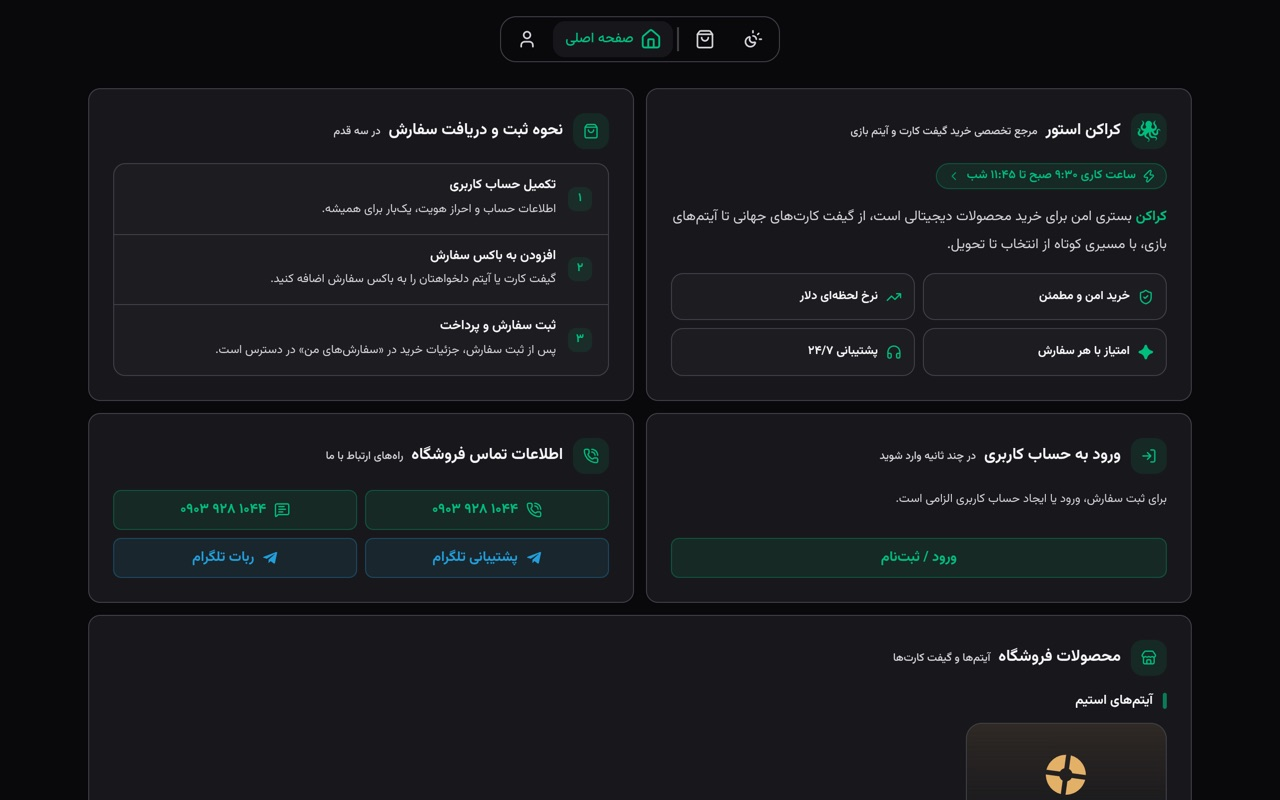
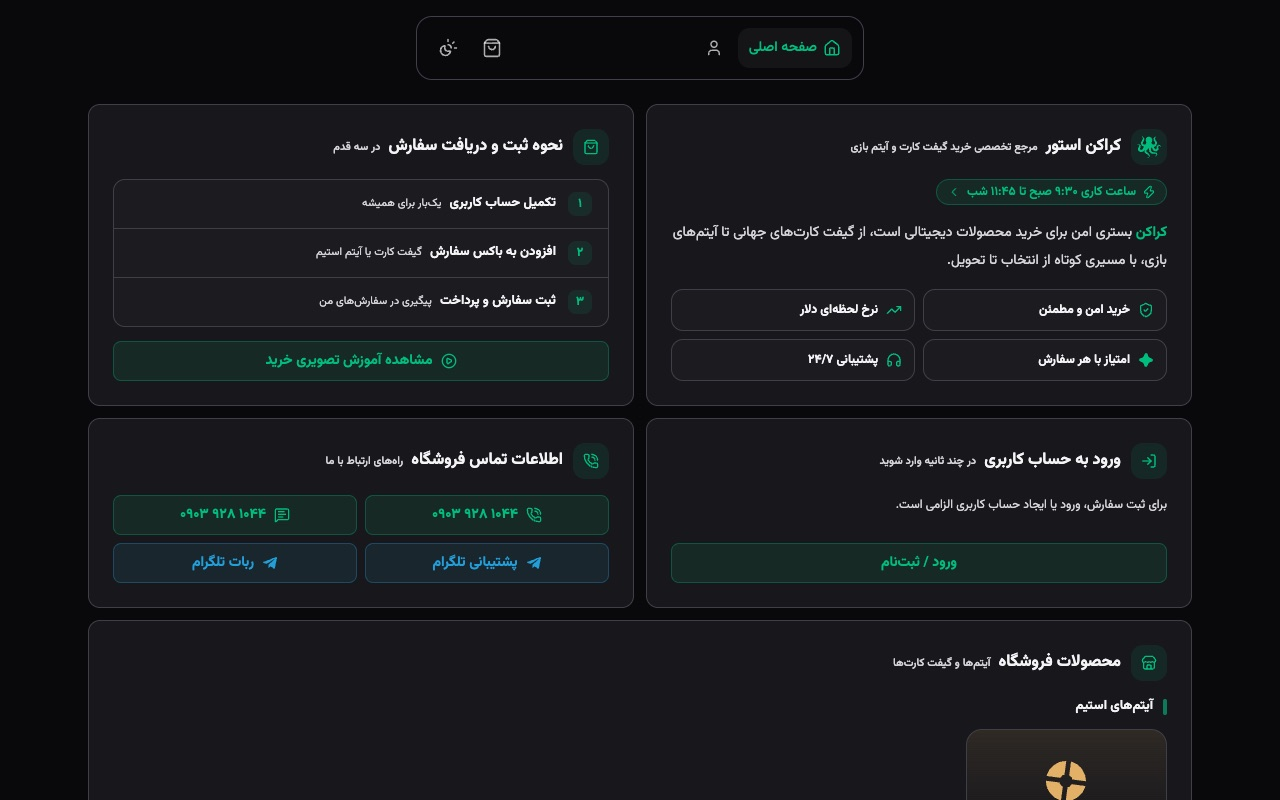
refactor(theme): follow system theme only

diff --git a/src/styles/globals.css b/src/styles/globals.css
@@ -1,7 +1,5 @@
 @import "tailwindcss";
 
-@custom-variant dark (&:is(.dark *));
-
 /* Self-hosted on a stable path so index.html can preload it — the version lives
    in the filename, so bumping the font means renaming the file. */
 @font-face {
@@ -65,6 +63,7 @@
 /* ── LAYER 2 — SEMANTIC TOKENS ─────────────────────────────────────────────
    Aliases only; a literal colour here is a bug. */
 :root {
+  color-scheme: light dark;
   --background: var(--paper-light);
   --foreground: var(--n-800);
   --card: var(--n-0);
@@ -94,31 +93,33 @@
   --github: var(--github-ink);
 }
 
-/* Only the slots that differ between themes. */
-.dark {
-  color-scheme: dark;
-  --background: var(--paper-dark);
-  --foreground: var(--n-200);
-  --card: var(--paper-dark-raised);
-  --card-foreground: var(--n-50);
-  --popover: var(--n-800);
-  --popover-foreground: var(--n-400);
-  --primary: var(--emerald-500);
-  --primary-foreground: oklch(0.16 0.02 164);
-  --secondary: var(--n-800);
-  --secondary-foreground: var(--n-0);
-  --muted: var(--n-800);
-  --muted-foreground: var(--n-400);
-  --accent: var(--n-800);
-  --accent-foreground: var(--n-0);
-  --destructive: var(--danger-bright);
-  --border: var(--n-800);
-  --input: var(--n-700);
-  --skeleton: var(--n-700);
-  --nav: var(--n-800);
-  --nav-thumb: var(--n-700);
+/* Only the slots that differ between themes. The site follows the visitor's
+   system setting; there is no toggle. */
+@media (prefers-color-scheme: dark) {
+  :root {
+    --background: var(--paper-dark);
+    --foreground: var(--n-200);
+    --card: var(--paper-dark-raised);
+    --card-foreground: var(--n-50);
+    --popover: var(--n-800);
+    --popover-foreground: var(--n-400);
+    --primary: var(--emerald-500);
+    --primary-foreground: oklch(0.16 0.02 164);
+    --secondary: var(--n-800);
+    --secondary-foreground: var(--n-0);
+    --muted: var(--n-800);
+    --muted-foreground: var(--n-400);
+    --accent: var(--n-800);
+    --accent-foreground: var(--n-0);
+    --destructive: var(--danger-bright);
+    --border: var(--n-800);
+    --input: var(--n-700);
+    --skeleton: var(--n-700);
+    --nav: var(--n-800);
+    --nav-thumb: var(--n-700);
 
-  --github: var(--github-snow);
+    --github: var(--github-snow);
+  }
 }
 
 @theme {
@@ -148,23 +149,11 @@
   --color-instagram: var(--instagram);
   --color-github: var(--github);
 
-  --animate-icon-in: icon-in 200ms ease-out;
   --animate-skeleton-wave: skeleton-wave 1.6s ease-in-out infinite;
 
   @keyframes skeleton-wave {
     50% {
       opacity: 0.35;
-    }
-  }
-
-  @keyframes icon-in {
-    from {
-      opacity: 0;
-      scale: 0.7;
-    }
-    to {
-      opacity: 1;
-      scale: 1;
     }
   }
 }

diff --git a/src/components/layout/navigation/navigation.tsx b/src/components/layout/navigation/navigation.tsx
@@ -1,7 +1,6 @@
 import { FolderGit2, type LucideIcon, UserRound } from 'lucide-react';
 import type { CSSProperties } from 'react';
 import { NavLink, useLocation } from 'react-router';
-import { useThemeNavigation } from '@/hooks/use-theme-navigation';
 import { cn } from '@/lib/utils/cn';
 
 interface NavTab {
@@ -20,30 +19,13 @@ const itemClass =
 
 export function Navigation() {
   const { pathname } = useLocation();
-  const { theme, getThemeIcon, getThemeLabel, toggleTheme } = useThemeNavigation();
-  const ThemeIcon = getThemeIcon();
   const selected = tabs.findIndex((tab) => tab.path === pathname);
 
   return (
     <nav
       aria-label="ناوبری اصلی"
-      className="flex items-center gap-1 rounded-full border border-border/60 bg-nav/60 p-1 backdrop-blur-xl backdrop-saturate-150"
+      className="flex items-center rounded-full border border-border/60 bg-nav/60 p-1 backdrop-blur-xl backdrop-saturate-150"
     >
-      {/* The control leads the row, ahead of the separator that divides it from
-          the places the visitor can go. */}
-      <button
-        type="button"
-        onClick={toggleTheme}
-        aria-label={`تغییر پوسته (فعلی: ${getThemeLabel()})`}
-        title={`پوسته: ${getThemeLabel()}`}
-        className={cn(itemClass, 'w-10 text-muted-foreground hover:text-foreground')}
-      >
-        {/* Keyed on the theme so the icon replays its entrance on every change */}
-        <ThemeIcon key={theme} className="size-5 animate-icon-in" />
-      </button>
-
-      <div aria-hidden="true" className="mx-1 h-6 w-px bg-foreground/15" />
-
       {/* Equal columns, as wide as the longest title, so the thumb is one column
           wide and each step of `--i` moves it exactly one tab. `isolate` keeps the
           pill and the labels in one stacking context, so the labels stay on top. */}

diff --git a/src/pages/profile/github-activity.tsx b/src/pages/profile/github-activity.tsx
@@ -1,11 +1,10 @@
-import { useTheme } from 'next-themes';
 import { cloneElement } from 'react';
 import { type Activity, ActivityCalendar, type BlockElement } from 'react-activity-calendar';
 import { site } from '@/lib/site';
 import { useGitHubContributions } from './use-github-contributions';
 
 // Theme tokens rather than GitHub's greens, so the grid follows the site's
-// colours and flips with the `.dark` class on its own.
+// colours and flips with the system theme on its own.
 const calendarTheme = {
   light: ['var(--muted)', 'var(--primary)'],
   dark: ['var(--muted)', 'var(--primary)'],
@@ -63,7 +62,6 @@ function emptyWindow(): Activity[] {
 
 /** The owner's GitHub contribution graph for the last six months. */
 export function GitHubActivity() {
-  const { resolvedTheme } = useTheme();
   const contributions = useGitHubContributions(site.githubUsername);
   const loading = contributions.status === 'loading';
   const cutoff = sixMonthsAgo();
@@ -92,7 +90,6 @@ export function GitHubActivity() {
           // With the legend off, the grid is the only svg inside
           className="self-center [&_svg]:h-auto [&_svg]:max-w-full"
           data={data}
-          colorScheme={resolvedTheme === 'dark' ? 'dark' : 'light'}
           theme={loading ? skeletonTheme : calendarTheme}
           renderBlock={
             loading ? (block, activity) => skeletonBlock(block, activity, data[0].date) : undefined

diff --git a/src/app.tsx b/src/app.tsx
@@ -2,27 +2,17 @@ import { BrowserRouter, Navigate, Route, Routes } from 'react-router';
 import { RootLayout } from '@/layouts/root-layout';
 import { ProfilePage } from '@/pages/profile/profile-page';
 import { ProjectsPage } from '@/pages/projects/projects-page';
-import { ThemeProvider } from '@/providers/theme-provider';
 
 export function App() {
   return (
-    <ThemeProvider
-      attribute="class"
-      defaultTheme="system"
-      enableSystem
-      disableTransitionOnChange
-      // Same key the pre-paint script in index.html reads.
-      storageKey="ajayche-theme"
-    >
-      <BrowserRouter>
-        <Routes>
-          <Route element={<RootLayout />}>
-            <Route index element={<ProfilePage />} />
-            <Route path="/projects" element={<ProjectsPage />} />
-          </Route>
-          <Route path="*" element={<Navigate to="/" replace />} />
-        </Routes>
-      </BrowserRouter>
-    </ThemeProvider>
+    <BrowserRouter>
+      <Routes>
+        <Route element={<RootLayout />}>
+          <Route index element={<ProfilePage />} />
+          <Route path="/projects" element={<ProjectsPage />} />
+        </Route>
+        <Route path="*" element={<Navigate to="/" replace />} />
+      </Routes>
+    </BrowserRouter>
   );
 }

diff --git a/src/pages/projects/projects-page.tsx b/src/pages/projects/projects-page.tsx
@@ -36,20 +36,16 @@ export function ProjectsPage() {
                   )}
                 >
                   {project.preview.type === 'screenshot' ? (
-                    <>
+                    // The browser picks one source by the system theme and downloads only that one
+                    <picture>
+                      <source media="(prefers-color-scheme: dark)" srcSet={project.preview.dark} />
                       <img
                         src={project.preview.light}
                         alt=""
                         loading="lazy"
-                        className="size-full object-cover object-top dark:hidden"
+                        className="size-full object-cover object-top"
                       />
-                      <img
-                        src={project.preview.dark}
-                        alt=""
-                        loading="lazy"
-                        className="hidden size-full object-cover object-top dark:block"
-                      />
-                    </>
+                    </picture>
                   ) : (
                     <TelegramPostPreview />
                   )}

diff --git a/index.html b/index.html
@@ -22,21 +22,6 @@
       crossorigin
     />
     <title>امیرحسین خورشیدی | درباره من و پروژههام</title>
-
-    <!-- Resolves the theme before first paint. Writes the same class next-themes
-         would, off the same storageKey as ThemeProvider in src/app.tsx. -->
-    <script>
-      try {
-        const stored = localStorage.getItem('ajayche-theme');
-        const dark =
-          stored === 'dark' ||
-          ((!stored || stored === 'system') &&
-            matchMedia('(prefers-color-scheme: dark)').matches);
-        document.documentElement.classList.add(dark ? 'dark' : 'light');
-      } catch (_) {
-        /* Storage can be blocked outright; the light default still applies. */
-      }
-    </script>
   </head>
   <body>
     <div id="root"></div>
